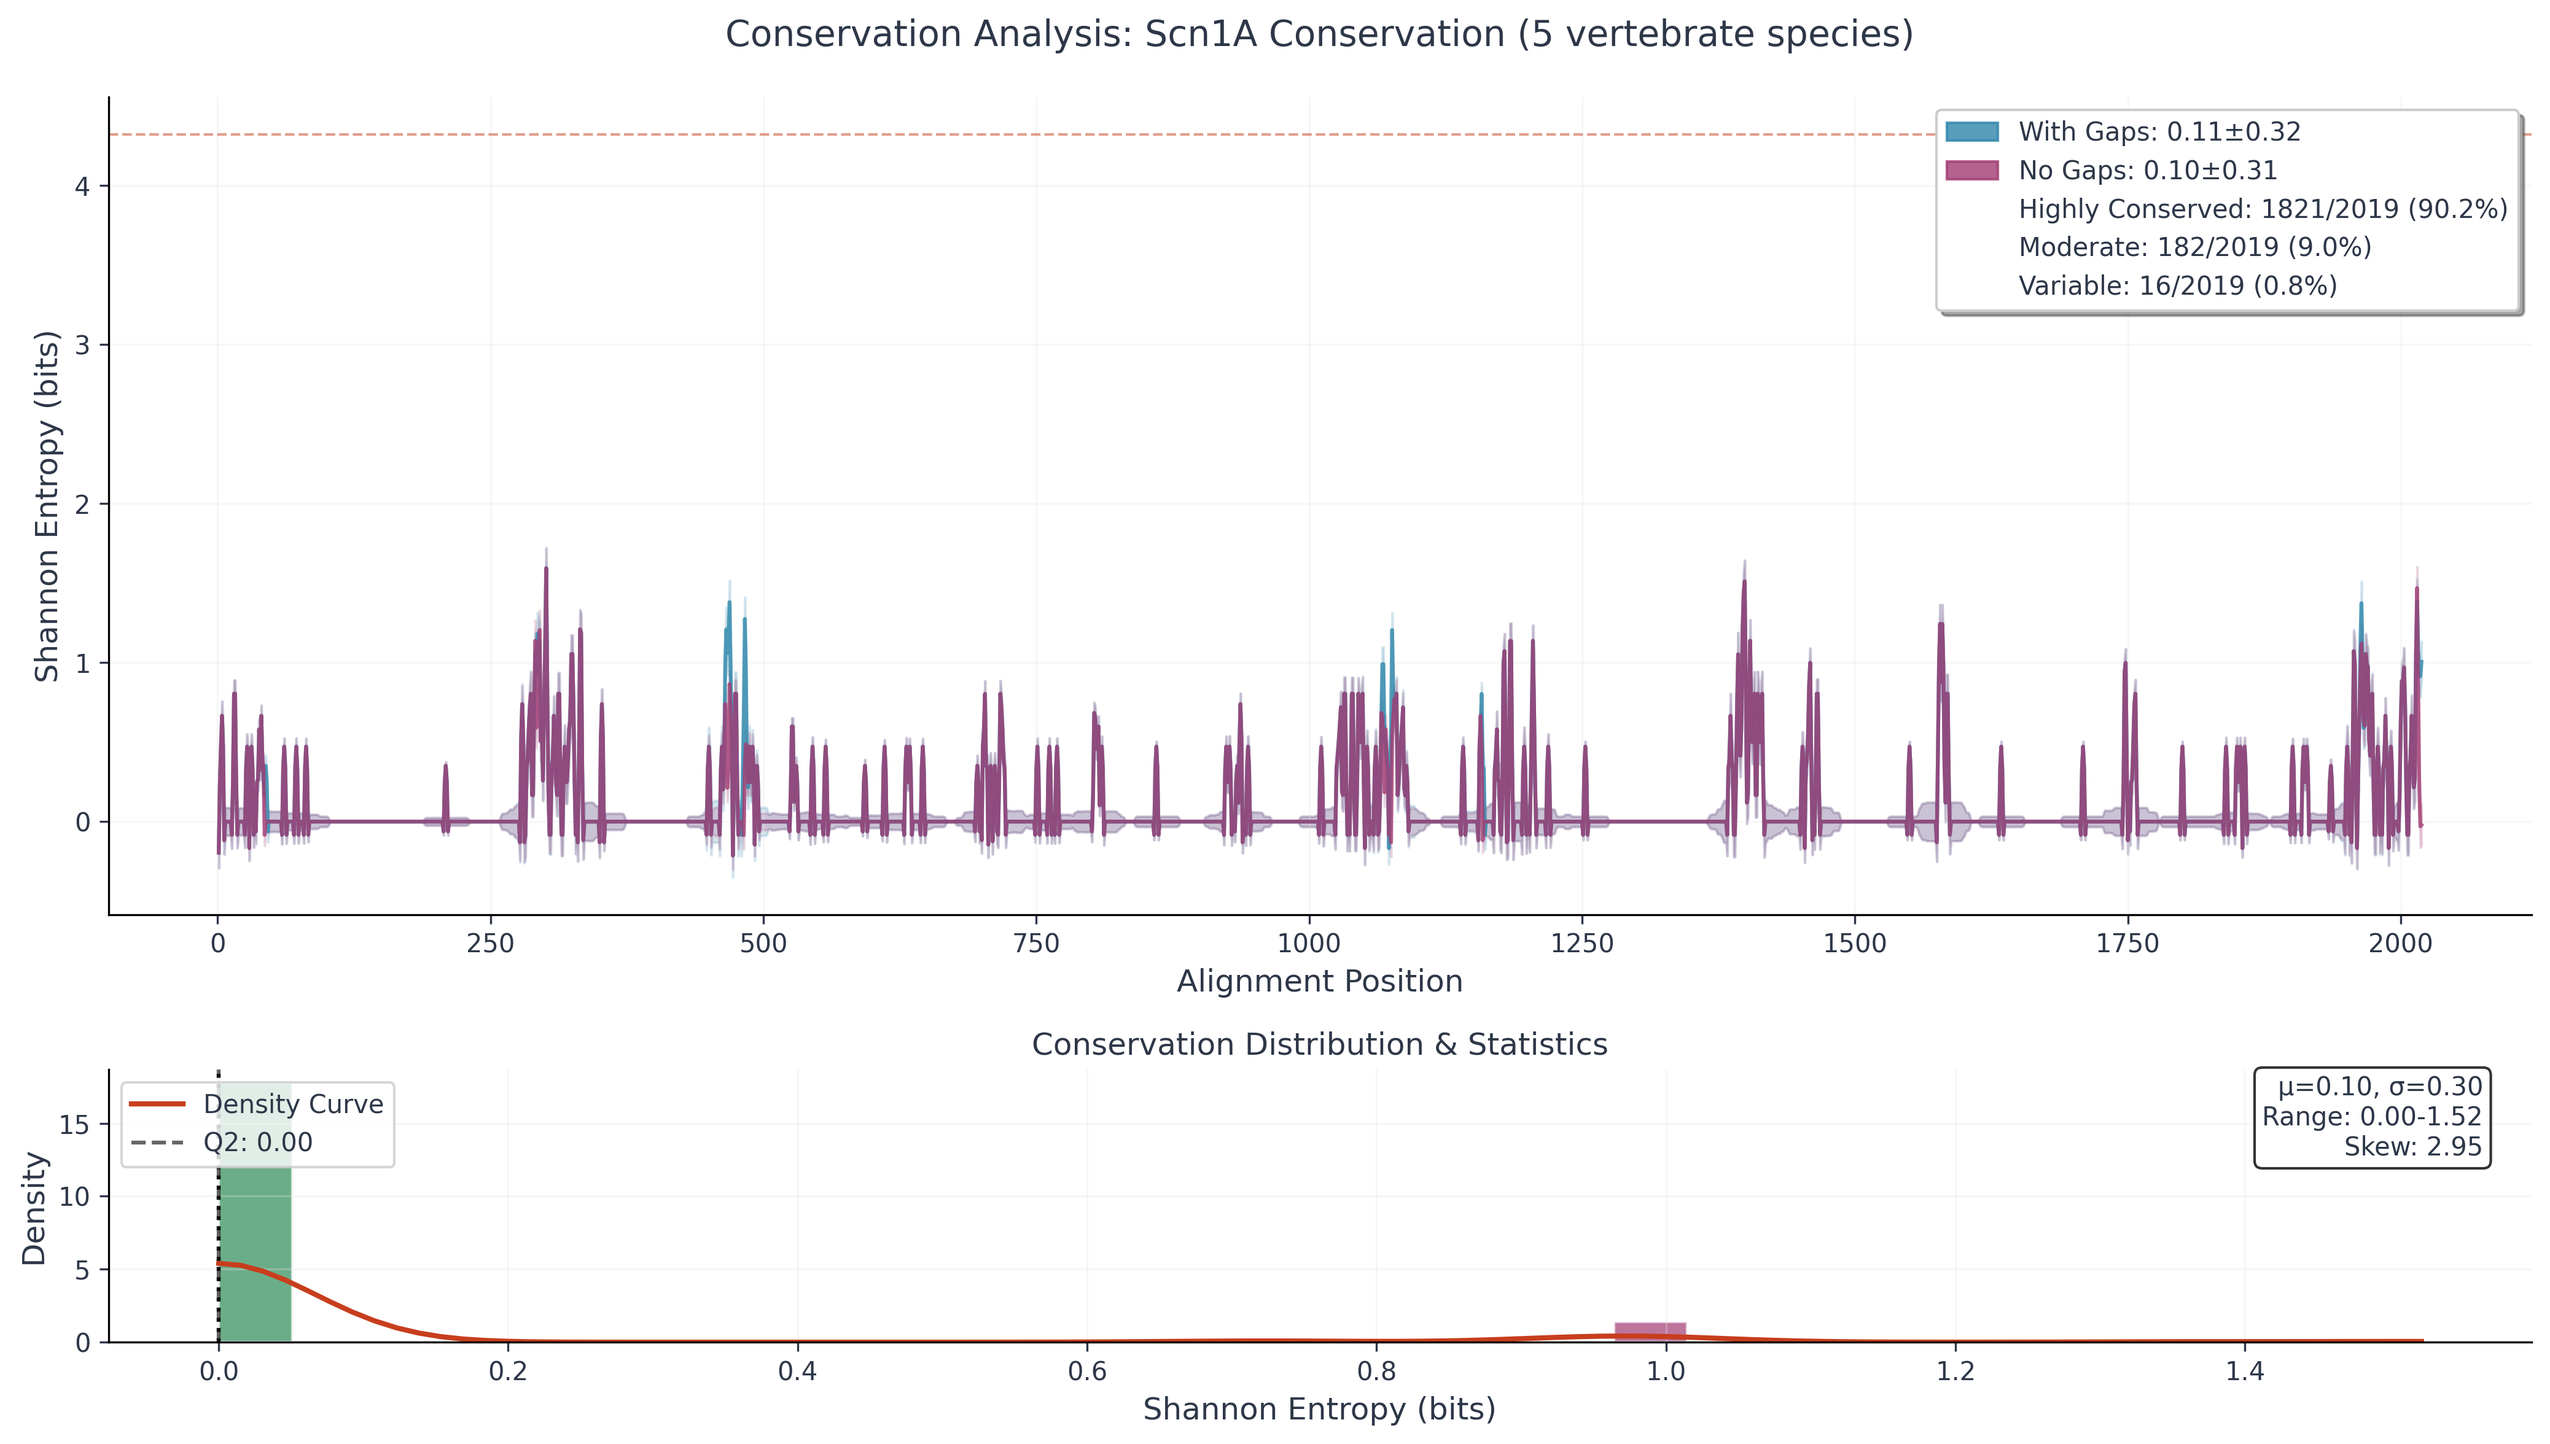
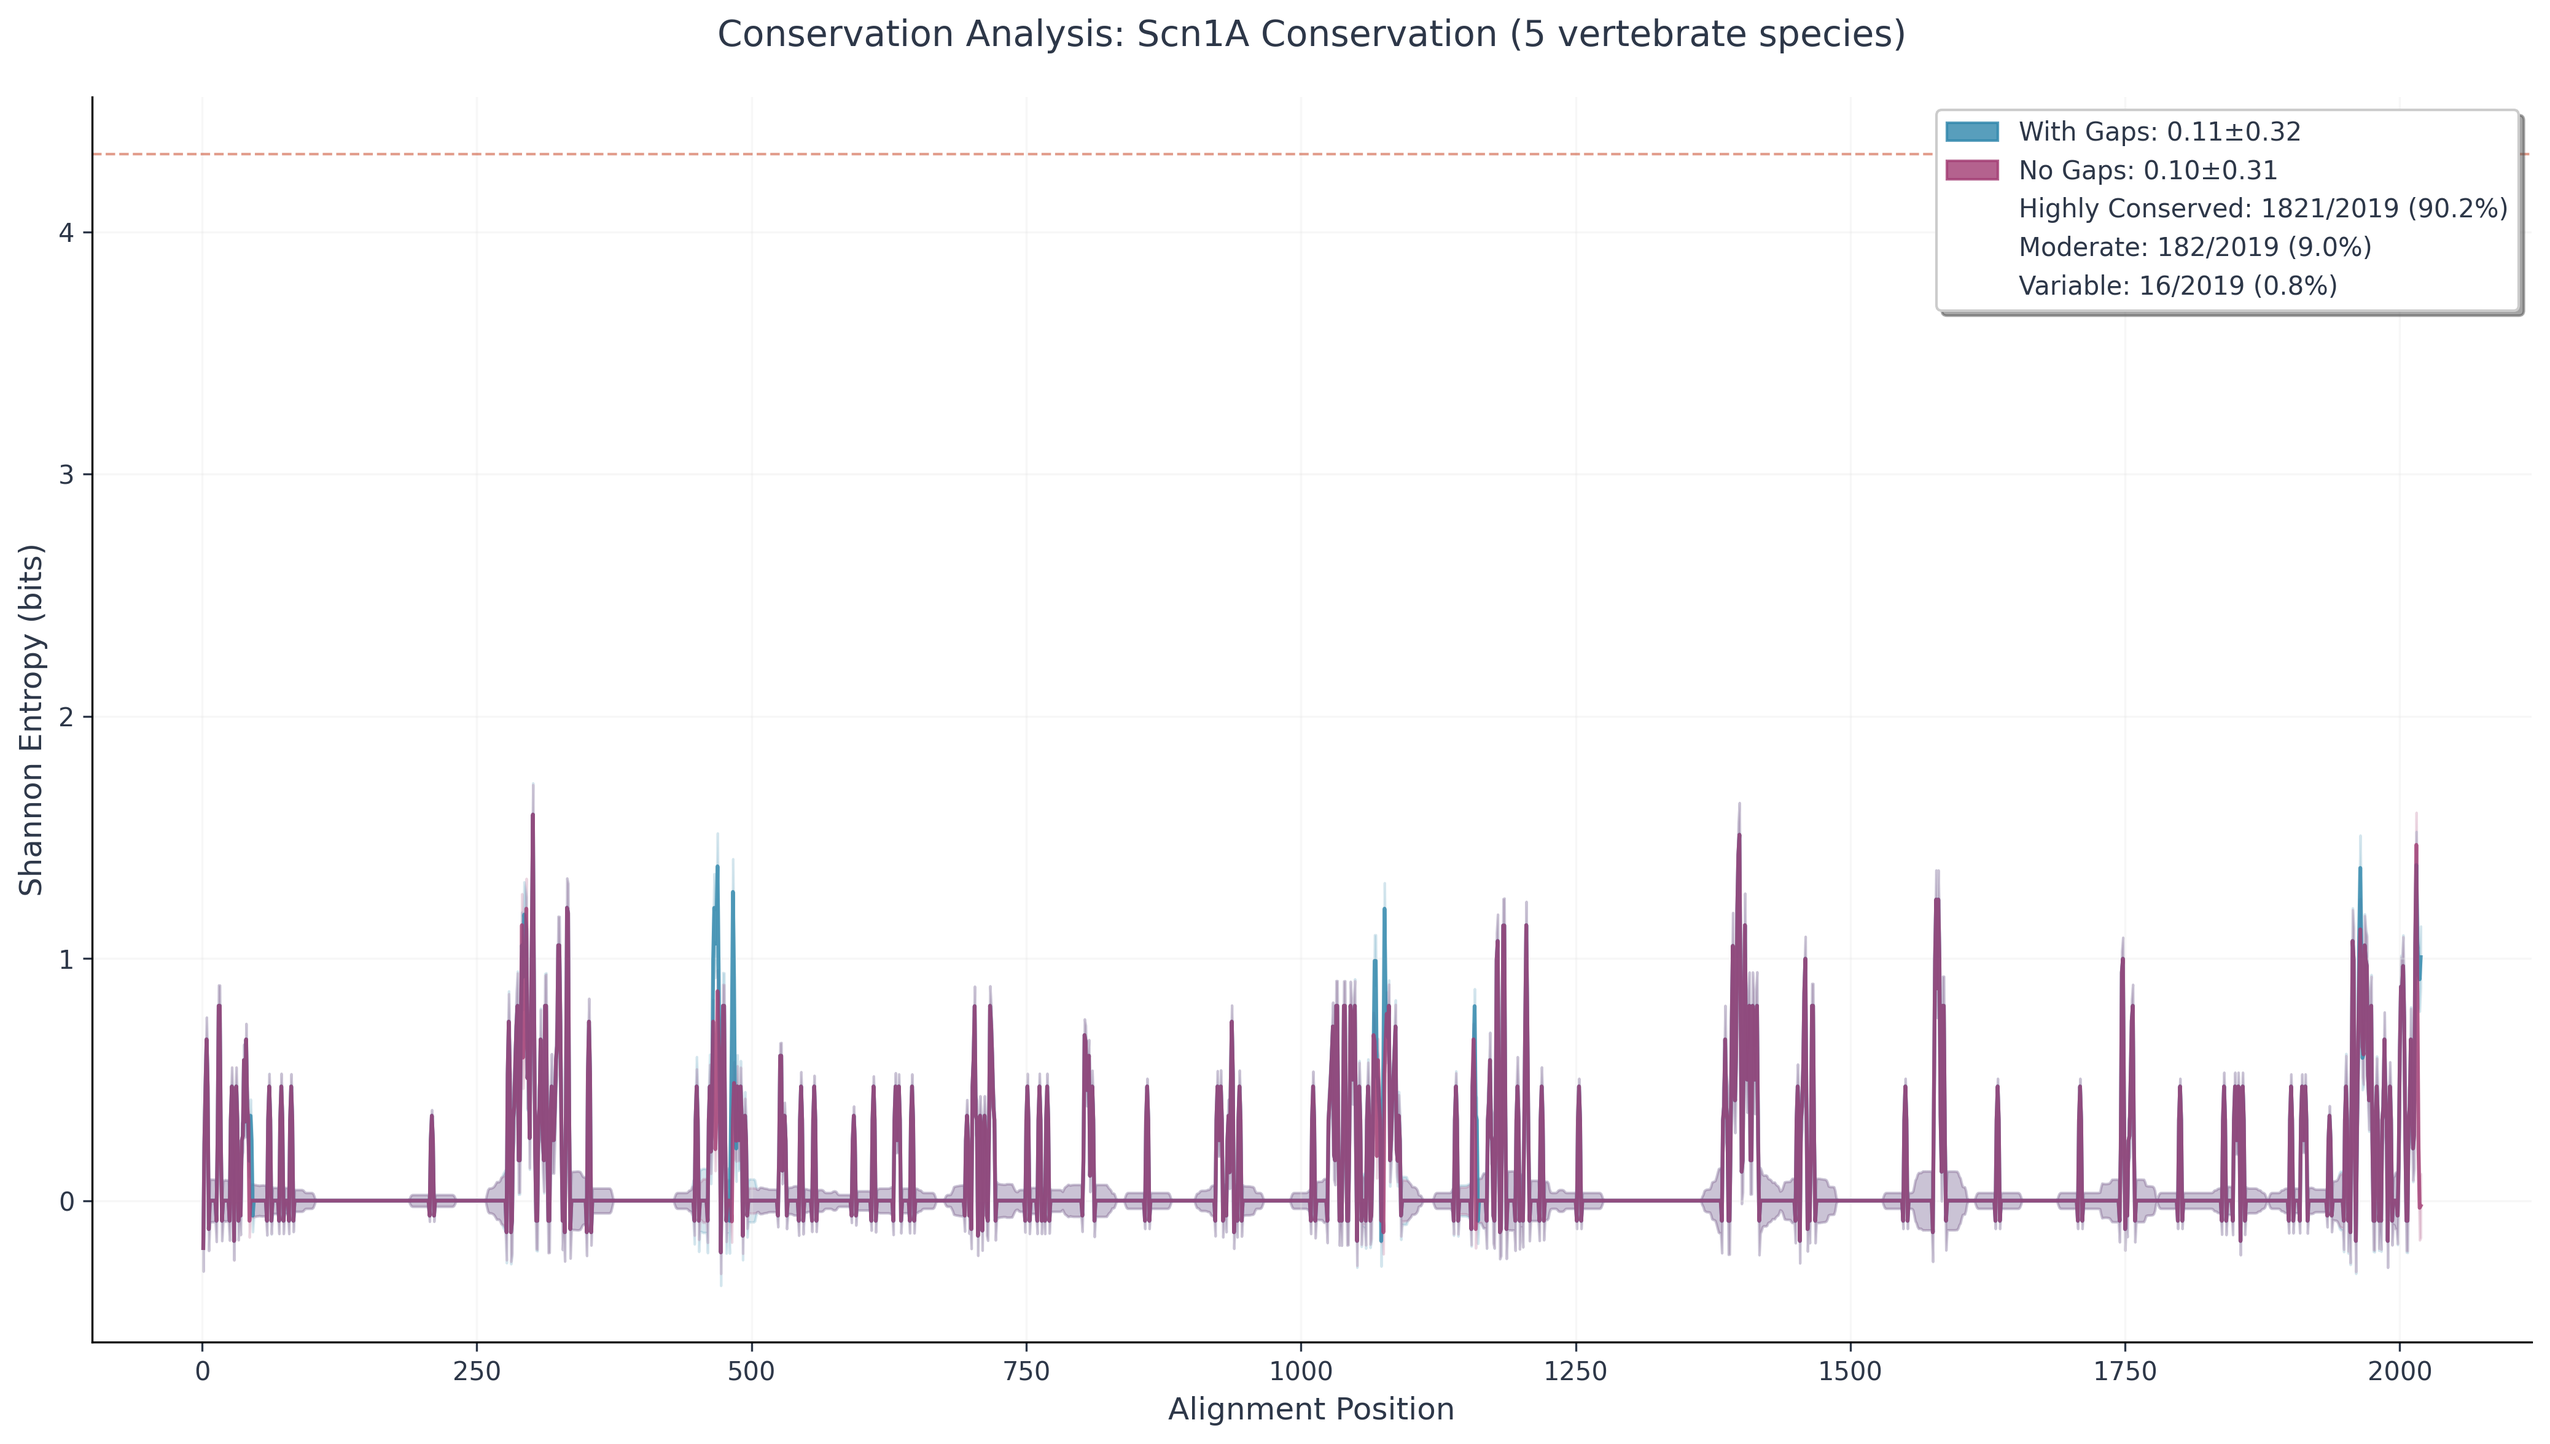
cleanup conservation plot

diff --git a/src/comparative_genomics_pipeline/visualization/scientific_plots.py b/src/comparative_genomics_pipeline/visualization/scientific_plots.py
@@ -76,14 +76,10 @@ class ConservationPlotter(BasePlotter):
         if output_dir is None:
             output_dir = csv_file.parent
         
-        fig, (ax1, ax2) = plt.subplots(2, 1, figsize=self.config.figsize_conservation,
-                                      height_ratios=[3, 1])
+        fig, ax1 = plt.subplots(1, 1, figsize=self.config.figsize_conservation)
         
         # Main conservation plot
         self._plot_conservation_main(ax1, df, csv_file.stem)
-        
-        # Conservation distribution histogram
-        self._plot_conservation_distribution(ax2, df)
         
         plt.tight_layout()
         
@@ -210,59 +206,6 @@ class ConservationPlotter(BasePlotter):
         ax.legend(handles=legend_elements, loc='upper right', 
                  frameon=True, fancybox=True, shadow=True, fontsize=self.theme.legend_fontsize)
     
-    def _plot_conservation_distribution(self, ax: plt.Axes, df: pd.DataFrame) -> None:
-        """Plot conservation score distribution with enhanced information."""
-        entropy_nogaps = df['ShannonEntropy_NoGaps'].values
-        
-        # Histogram with optimal binning
-        n_bins = min(30, max(10, len(entropy_nogaps) // 5))
-        counts, bins, patches = ax.hist(entropy_nogaps, bins=n_bins, color=self.theme.secondary_color,
-                                       alpha=0.7, density=True, edgecolor='white')
-        
-        # Color-code bins by conservation level
-        for i, (count, patch) in enumerate(zip(counts, patches)):
-            bin_center = (bins[i] + bins[i+1]) / 2
-            if bin_center < 0.5:  # Highly conserved
-                patch.set_facecolor('#2E8B57')  # Sea green
-            elif bin_center < 1.5:  # Moderately conserved
-                patch.set_facecolor(self.theme.secondary_color)
-            else:  # Variable
-                patch.set_facecolor('#FF6347')  # Tomato
-        
-        # Add distribution curve and statistics
-        if len(entropy_nogaps) > 10:
-            kde_x = np.linspace(entropy_nogaps.min(), entropy_nogaps.max(), 100)
-            try:
-                kde = stats.gaussian_kde(entropy_nogaps)
-                ax.plot(kde_x, kde(kde_x), color=self.theme.error_color, 
-                       linewidth=2, label='Density Curve')
-            except np.linalg.LinAlgError:
-                pass
-        
-        # Add quartile lines
-        quartiles = np.percentile(entropy_nogaps, [25, 50, 75])
-        for i, q in enumerate(quartiles):
-            linestyle = '--' if i == 1 else ':'
-            ax.axvline(q, color='black', linestyle=linestyle, alpha=0.6, 
-                      label=f'Q{i+1}: {q:.2f}' if i == 1 else None)
-        
-        # Enhanced statistics in corner
-        stats_text = f'μ={np.mean(entropy_nogaps):.2f}, σ={np.std(entropy_nogaps):.2f}\n'
-        stats_text += f'Range: {np.min(entropy_nogaps):.2f}-{np.max(entropy_nogaps):.2f}\n'
-        stats_text += f'Skew: {stats.skew(entropy_nogaps):.2f}'
-        
-        ax.text(0.98, 0.98, stats_text, transform=ax.transAxes, 
-               verticalalignment='top', horizontalalignment='right',
-               bbox=dict(boxstyle='round', facecolor='white', alpha=0.8),
-               fontsize=self.theme.tick_fontsize)
-        
-        ax.set_xlabel('Shannon Entropy (bits)', fontsize=self.theme.label_fontsize)
-        ax.set_ylabel('Density', fontsize=self.theme.label_fontsize) 
-        ax.set_title('Conservation Distribution & Statistics', fontsize=self.theme.label_fontsize)
-        ax.grid(True, alpha=self.theme.grid_alpha)
-        if ax.get_legend_handles_labels()[0]:  # Only show legend if we have items
-            ax.legend(loc='upper left', fontsize=self.theme.tick_fontsize)
-
 
 class PhylogeneticPlotter(BasePlotter):
     """Publication-quality phylogenetic tree visualization."""

diff --git a/README.md b/README.md
@@ -59,22 +59,6 @@ docker run --rm -v $(pwd)/data:/app/data genomics-pipeline
 rm -rf ./data/output/*
 ```
 
-📁 **Full requirements:** [docs/requirements.md](docs/requirements.md)
-
-## Results
-
-**SCN1A Analysis (H. sapiens, M. musculus, M. mulatta, G. gallus, P. major):**
-- Sequence identity ranges from 78-99% across vertebrates
-- Phylogenetic relationships consistent with expected evolutionary divergence
-- 847 human variants successfully mapped to conservation scores
-- Disease variants show clustering in functionally critical transmembrane domains
-- Addition of P. major (78% identity) provides improved resolution for conservation analysis
-
-**Technical Validation:**
-- Successful integration of multiple genomic databases
-- Reproducible Docker workflow
-- Conservation scoring correlates with known functional domains
-
 ## Installation
 
 ```bash
